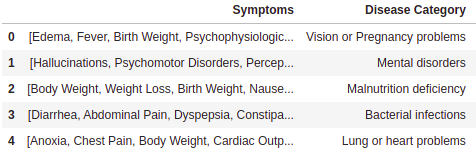
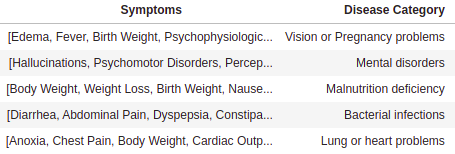
updating readme

diff --git a/README.md b/README.md
@@ -49,7 +49,7 @@ Analysis of the Symptoms-Disease Network database using communities.
 ## Table of the characterization of each community by symptoms
 
 <p align="center">
-<img src=".images-readme/table_symptom_disease.png" alt="figure" width="400"/>
+<img src=".images-readme/table_symptom_disease.png" alt="figure" width="500"/>
 </p>
 
 
